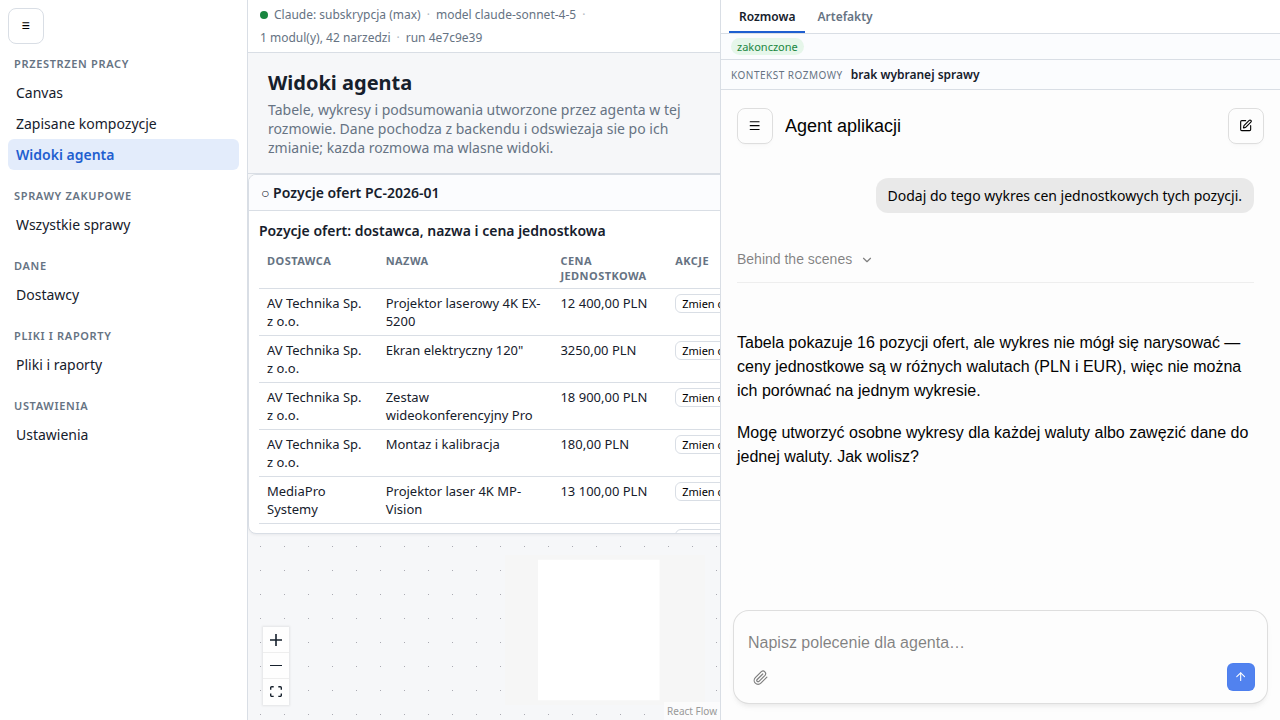
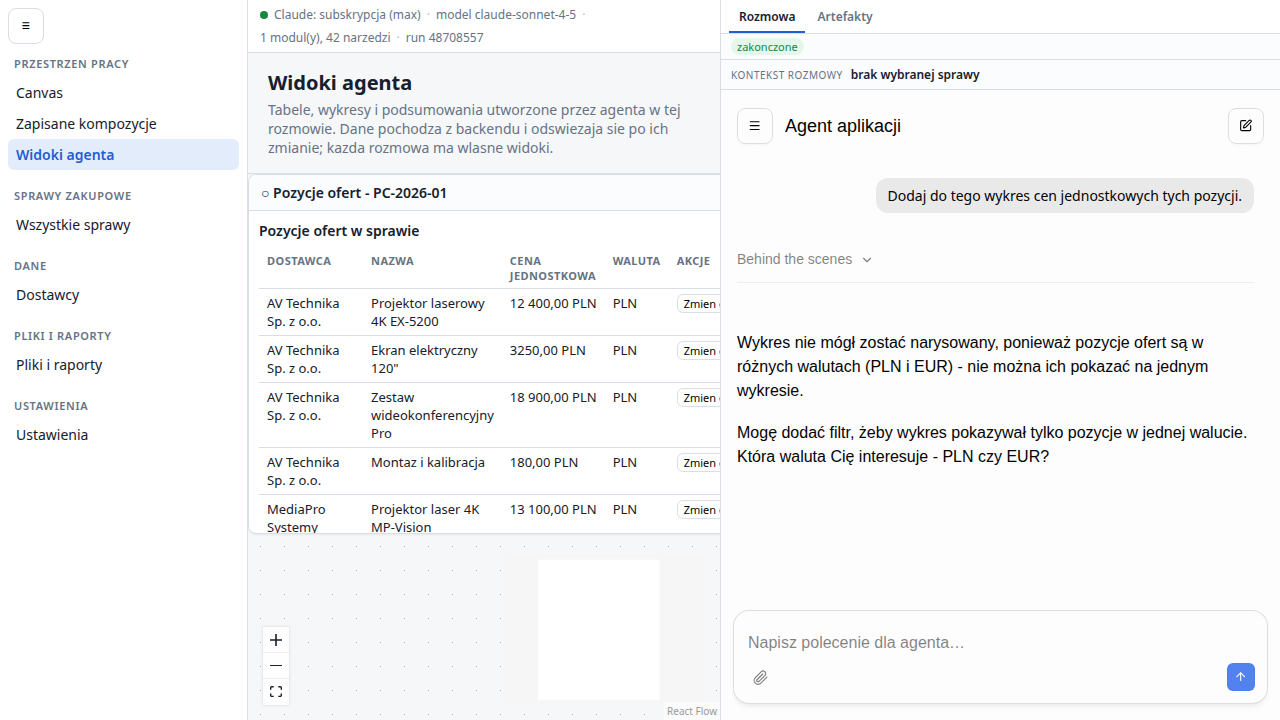
Test zamykajacy krokow 5-6 usuniety: glowna proba T27 obejmuje wszystkie szesc krokow

diff --git a/e2e/bl01-bl02-model.spec.ts b/e2e/bl01-bl02-model.spec.ts
@@ -1283,227 +1283,4 @@ test.describe('proby odbiorowe z prawdziwym modelem', () => {
     }
   });
 
-  /* ------------------------------------------------------------------------ */
-  /*  T27, kroki 5-6 — trwalosc przestrzeni rozmowy                           */
-  /* ------------------------------------------------------------------------ */
-
-  /**
-   * Reload and a change of conversation, on compositions a model really wrote.
-   *
-   * The probe above reached these two steps on `run_893c41ea783949bdbb7a` — the
-   * cards came back after the reload with their ids and were all on screen —
-   * and then this file's own poll threw on a description the reload had just
-   * retired, before the values could be compared. That was a fault of the test,
-   * and the turns for a third full pass of the probe were gone, so the last turn
-   * of the budget buys exactly the part that was never checked: one command,
-   * then a mutation, a reload and a walk out of the conversation and back, all
-   * driven from the interface and none of it costing a turn.
-   *
-   * The command asks for items in PLN so that the summary is unambiguous
-   * without a second turn; whether a chart appears is recorded rather than
-   * required — what is required is that whatever the agent composed comes back,
-   * with the backend's values, after the reload and after the conversation
-   * switch.
-   */
-  test('T27 (kroki 5-6) — przeladowanie i powrot do rozmowy odtwarzaja kompozycje modelu z wartosciami backendu', async ({
-    page,
-  }) => {
-    test.setTimeout(AGENT_TIMEOUT + 240_000);
-    const evidence: Record<string, any> = {
-      proba: 'T27 — kroki 5 i 6',
-      kryteria: ['L3.14', 'L3.16', 'L3.17', 'L3.18'],
-      werdykt: 'niezaliczona',
-      przebiegi: [],
-    };
-    let restore: (() => Promise<void>) | null = null;
-
-    try {
-      await openApp(page, '/');
-      await expect.poll(() => param(page, 's'), { timeout: 15_000 }).toBeTruthy();
-      const workspace = param(page, 's');
-      await openAgentViews(page);
-      await expect(viewsPage(page)).toHaveAttribute('data-state', 'no-conversation');
-
-      const { cases } = await getJson<{ cases: Array<{ id: string; code: string }> }>(
-        page,
-        '/api/m/procurement/cases',
-      );
-      const procurementCase = cases.find((c) => c.code === 'PC-2026-01')!;
-
-      /* ------------------------- the agent's view ---------------------------- */
-      const command =
-        'Zestaw mi w widokach agenta pozycje ofert w PLN ze sprawy PC-2026-01: dostawca, ' +
-        'nazwa pozycji i cena jednostkowa, a pod spodem wykres tych cen.';
-      const run = await sendForRun(page, command, evidence.proba as string);
-      const phase = await settled(page, run.runId);
-      const conversationId = param(page, 'c')!;
-      evidence.rozmowa = conversationId;
-      evidence.przebiegi.push(await runFacts(page, conversationId, run.runId, command));
-      expect(phase).toBe('succeeded');
-
-      const results = await toolResults(page, run.runId);
-      const created = results
-        .filter((r) => r.name === 'mcp__app__agent_view_create')
-        .map((r) => r.result.cardId as string);
-      expect(created.length, 'wykonanie nie utworzylo zadnego widoku agenta').toBeGreaterThan(0);
-      const before = await agentViewsOf(page, conversationId);
-      expect(before.cards.length).toBeGreaterThan(0);
-      for (const card of before.cards) expect(created, 'zastana karta').toContain(card.id);
-      expect(before.space!.id).not.toBe(workspace);
-      evidence.kartyZTegoWykonania = created;
-      evidence.odczytalEkranPoZapisie = readBackAfterViewTool(results);
-
-      const settle = async (what: string) => {
-        const mounted = await describedOnAgentViews(page, what, has('DataTable'));
-        for (const instance of mounted) {
-          if (instance.component === 'DataTable') {
-            await expectInstanceMatchesBackend(page, viewsPage(page), instance);
-          }
-          if (instance.component === 'DataChart' && instance.state === 'ready') {
-            await expectChartMatchesBackend(page, viewsPage(page), instance);
-          }
-        }
-        return mounted;
-      };
-      const mountedFirst = await settle('opis ekranu Widokow agenta po zlozeniu widoku');
-      evidence.komponenty = mountedFirst.map((i: any) => ({
-        component: i.component,
-        state: i.state,
-        operation: i.source.operation,
-        rekordow: i.visibleRecordIds.length,
-      }));
-
-      /* ------------------ a mutation, from the interface --------------------- */
-      const itemsTable = mountedFirst.find(
-        (i: any) => i.component === 'DataTable' && i.source.operation === 'procurement.case_offer_items',
-      );
-      let targetId: string | null = null;
-      let newText: string | null = null;
-
-      if (itemsTable && itemsTable.visibleRecordIds.length > 0) {
-        const itemsBefore = await readBackend(page, 'procurement.case_offer_items', {
-          caseId: procurementCase.id,
-        });
-        const priceField = fieldOf(itemsBefore.descriptor!, 'unitPriceMinor');
-        const items = recordsOf(itemsBefore.result, itemsBefore.descriptor!);
-        const recordId: string = itemsTable.visibleRecordIds[0]!;
-        targetId = recordId;
-        const targetBefore = items.find((r) => String(r.id) === recordId)!;
-        const originalTyped = String((targetBefore.unitPriceMinor as number) / 100).replace('.', ',');
-
-        const live = viewsPage(page).locator(`[data-ui-instance="${itemsTable.instanceId}"]`);
-        const hasAction =
-          (await live
-            .locator(`tr[data-record-id="${recordId}"] button[data-record-action="change_unit_price"]`)
-            .count()) > 0;
-        expect(hasAction, 'tabela widoku agenta nie daje akcji rekordu tego odczytu').toBe(true);
-
-        await changeUnitPrice(page, live, recordId, '7 777,50');
-        restore = async () => {
-          const res = await page.request.post('/api/actions', {
-            data: {
-              operation: 'procurement.case_offer_items',
-              input: { caseId: procurementCase.id },
-              action: 'change_unit_price',
-              recordId,
-              values: { unitPrice: originalTyped },
-              operationId: `t8-restore-${Date.now()}`,
-            },
-          });
-          expect(res.status(), 'przywrocenie ceny z zasiewu').toBe(200);
-        };
-
-        const itemsAfter = await readBackend(page, 'procurement.case_offer_items', {
-          caseId: procurementCase.id,
-        });
-        const targetAfter = recordsOf(itemsAfter.result, itemsAfter.descriptor!).find(
-          (r) => String(r.id) === recordId,
-        )!;
-        expect(targetAfter.unitPriceMinor).toBe(777750);
-        newText = formatFieldValue(targetAfter, priceField);
-        if (targetAfter.currency === 'PLN') expect(newText).toBe('7777,50 PLN');
-        await expect(
-          viewsPage(page).locator(`td[data-record-id="${recordId}"][data-field="unitPriceMinor"]`),
-        ).toHaveText(newText);
-        evidence.mutacja = { rekord: recordId, nowaWartosc: newText, gdzie: 'akcja rekordu w widoku agenta' };
-      } else {
-        evidence.mutacja = { pominieta: 'widok nie czyta operacji z akcja rekordu' };
-      }
-
-      /* ----------------------------- the reload ------------------------------ */
-      await page.reload();
-      await expect(viewsPage(page)).toHaveAttribute('data-conversation-id', conversationId);
-      await expect(viewsPage(page)).toHaveAttribute('data-state', 'ready');
-      const afterReload = await agentViewsOf(page, conversationId);
-      expect(afterReload.cards.map((c) => c.id).sort()).toEqual(before.cards.map((c) => c.id).sort());
-      for (const card of afterReload.cards) await expect(page.getByTestId(`card-${card.id}`)).toBeVisible();
-      await settle('opis ekranu Widokow agenta po przeladowaniu');
-      if (targetId && newText) {
-        await expect(
-          viewsPage(page).locator(`td[data-record-id="${targetId}"][data-field="unitPriceMinor"]`),
-        ).toHaveText(newText);
-      }
-      evidence.poPrzeladowaniu = { karty: afterReload.cards.map((c) => c.id), wartosciZgodneZBackendem: true };
-      await shot(page, 't27-kroki-5-6-po-przeladowaniu.png');
-
-      /* ------------------ out of the conversation, and back ------------------ */
-      const { threads } = await getJson<{ threads: Array<{ id: string; title: string }> }>(
-        page,
-        '/api/threads/get',
-      );
-      const title = threads.find((t) => t.id === conversationId)!.title;
-
-      /*
-       * The header icon, not the large button in the drawer.
-       *
-       * Both carry `aria-label="New chat"`. The large one lives inside the
-       * conversation drawer, off-canvas while it is closed, so a click on it
-       * lands on whatever is underneath — on "Widoki agenta" that is the React
-       * Flow pane, which is what happened on `run_9411a0c692a04d8f822c`: the
-       * click retried until the test timed out and step 6 was never reached.
-       * `e2e/session-restore.spec.ts` documents the same trap.
-       */
-      await page.locator('.pf-chat .openui-icon-button[aria-label="New chat"]').first().click();
-      await expect(viewsPage(page)).toHaveAttribute('data-state', 'no-conversation');
-      for (const card of afterReload.cards) {
-        await expect(page.getByTestId(`card-${card.id}`)).toHaveCount(0);
-      }
-
-      const drawer = page.locator('.openui-agent-sidebar-container');
-      if ((await drawer.getAttribute('data-sidebar-visual-state')) !== 'expanded') {
-        await page.locator('.pf-chat [aria-label="Open sidebar"]').first().click();
-      }
-      await expect(drawer).toHaveAttribute('data-sidebar-visual-state', 'expanded');
-      // Let the drawer finish sliding, so the click lands on the row and not where it was.
-      await page.waitForTimeout(500);
-      const row = page.locator('.openui-agent-thread-button', { hasText: title }).first();
-      await expect(row).toBeVisible();
-      // `force`: the list re-renders while it loads and never settles for the stability check.
-      await row.click({ force: true });
-      await expect.poll(() => param(page, 'c'), { timeout: 30_000 }).toBe(conversationId);
-
-      await expect(viewsPage(page)).toHaveAttribute('data-conversation-id', conversationId);
-      await expect(viewsPage(page)).toHaveAttribute('data-state', 'ready');
-      const afterSwitch = await agentViewsOf(page, conversationId);
-      expect(afterSwitch.cards.map((c) => c.id).sort()).toEqual(before.cards.map((c) => c.id).sort());
-      for (const card of afterSwitch.cards) await expect(page.getByTestId(`card-${card.id}`)).toBeVisible();
-      await settle('opis ekranu Widokow agenta po powrocie do rozmowy');
-      if (targetId && newText) {
-        await expect(
-          viewsPage(page).locator(`td[data-record-id="${targetId}"][data-field="unitPriceMinor"]`),
-        ).toHaveText(newText);
-      }
-      evidence.poPowrocieDoRozmowy = {
-        karty: afterSwitch.cards.map((c) => c.id),
-        wartosciZgodneZBackendem: true,
-      };
-      await shot(page, 't27-kroki-5-6-po-powrocie.png');
-
-      evidence.werdykt = 'zaliczona';
-    } finally {
-      evidence.turyModeluWydaneLacznie = readLedger().wydane;
-      writeEvidence('t27-kroki-5-6.json', evidence);
-      if (restore) await restore().catch(() => undefined);
-    }
-  });
 });

diff --git a/docs/evidence/bl01-bl02-2026-09-17/README.md b/docs/evidence/bl01-bl02-2026-09-17/README.md
@@ -7,13 +7,13 @@ wykonania (`GET /api/runs/:id/events`) i backendu (`POST /api/read`) — nigdy b
 
 | Plik | Co zawiera |
 |---|---|
-| `tury-modelu.json` | rejestr **wszystkich** tur subskrypcji wydanych przez to zadanie (12 na Task 8 + 6 na dokończenie T27 po Task 9): numer, czas, etap, próba, polecenie, identyfikator wykonania |
+| `tury-modelu.json` | rejestr **wszystkich** tur subskrypcji wydanych przez to zadanie (12 na Task 8 + 6 na dokończenie T27 po Task 9 + 4 na domknięcie kroków 2 i 6): numer, czas, etap, próba, polecenie, identyfikator wykonania |
 | `t25-wskazanie-wartosci.json` | T25 — zaliczona; warunek wstępny, werdykt detektora, wynik `ui_show_value`, opis ekranu po, dane backendu przed i po |
 | `t26-zawezenie-rozmowa.json` | T26 — zaliczona; trzy wykonania, wszystkie próby zawężenia modelu, kontekst drugiego polecenia, przywrócony pełny zakres |
 | `t27-proba-a-kod-sprawy-jako-id.json` | T27 wariant A — **niezaliczona** dwukrotnie: model użył kodu sprawy jako jej identyfikatora |
 | `t27-przed-task-9-wykres-nienarysowany.json` | T27 **przed** Task 9 — przebieg, na którym powstało ustalenie F2 (wykres zapisany, nienarysowany, model oznajmił sukces) |
-| `t27-widoki-agenta.json` | T27 **po** Task 9 — kroki 1–4 potwierdzone (identyfikator z odczytu, wykres dołożony, zakres zawężony rozmową, mutacja bez przeładowania) |
-| `t27-kroki-5-6.json` | T27 kroki 5–6 — przeładowanie potwierdzone; powrót do rozmowy niesprawdzony (błąd testu, budżet wyczerpany) |
+| `t27-widoki-agenta.json` | T27 **po** Task 9 — **wszystkie sześć kroków zaliczone** w jednej rozmowie (tury 19–21) |
+| `t27-kroki-5-6.json` | **archiwalny** — tura 17, pomocniczy test kroków 5–6 (przeładowanie potwierdzone); test usunięty ze speca, gdy główna próba objęła te kroki sama |
 | `t25-*.png`, `t26-*.png`, `t27-*.png` | zrzuty ekranu stanu po wykonaniu |
 
 Pliki nie zawierają sekretów, identyfikatorów sesji Claude ani ścieżek spoza repozytorium.
